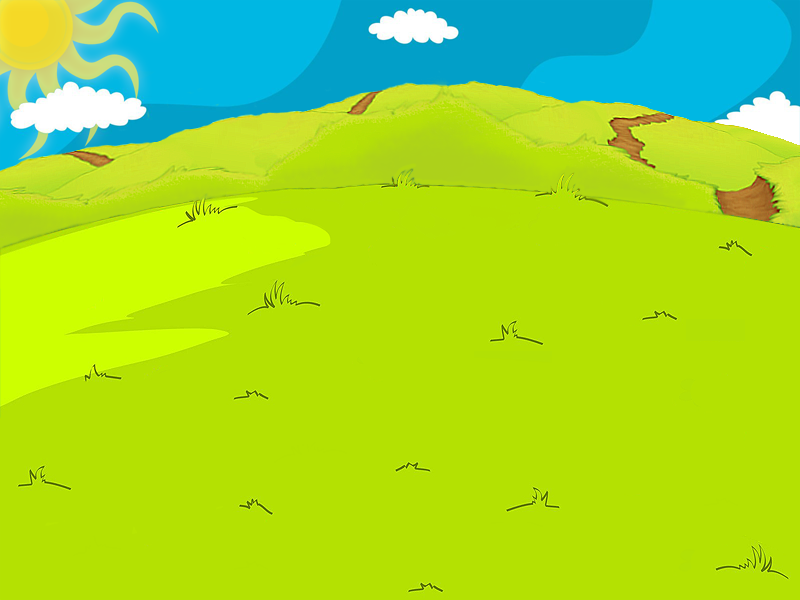
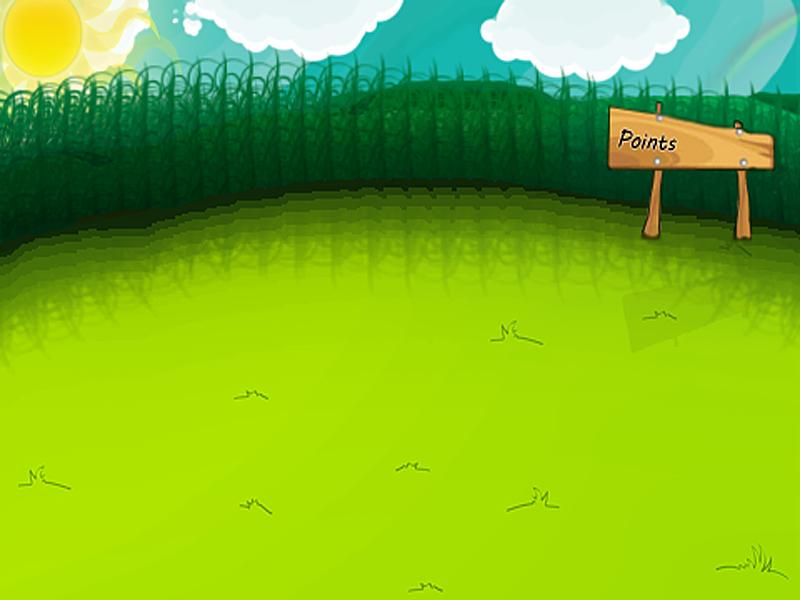
Alterado o plano de fundo e posição dos pontos e adicionado o flare

diff --git a/molehole.py b/molehole.py
@@ -178,6 +178,7 @@ tabuleiro = pygame.Surface((640, 288), flags=pygame.SRCALPHA)
 martelo = pygame.Surface((800, 600), flags=pygame.SRCALPHA)
 
 background = pygame.image.load('images/background.png')
+flare = pygame.image.load('images/flare.png')
 hole_bg = pygame.image.load('images/hole_0.png')
 mole_active = pygame.image.load('images/mole.png')
 mole_punk = pygame.image.load('images/mole_punk.png')
@@ -189,16 +190,17 @@ pygame.mouse.set_visible(False)
 points = 0
 lifes = 5
 speed_counter = 0
-dificulty = 12
+dificulty = 8
 
 points_font = pygame.font.Font('FreeSans.ttf', 24)
 lifes_font = pygame.font.Font('FreeSans.ttf', 24)
+points_font.set_bold(True)
 dead_title_font = pygame.font.Font('FreeSans.ttf', 50)
 dead_points_font = pygame.font.Font('FreeSans.ttf', 140)
 
 
 #Eventos iniciais
-alive_holes = [0, 1, 2, 3, 4, 5, 6, 7, 8, 9, 10, 11, 12, 13, 14]
+alive_holes = [1, 2, 3, 6, 7, 8, 11, 12, 13]
 place_holes(alive_holes)
 
 
@@ -243,13 +245,14 @@ while not done:
 
     draw_holes()
 
-    points_render = points_font.render(('Points  ' + str(points)), True, (255, 255, 255))
-    lifes_render = lifes_font.render(('Lifes  ' + str(lifes)), True, (255, 80, 50))
+    points_render = points_font.render(str(points), True, (178, 34, 34))
+    lifes_render = lifes_font.render(('Lifes  ' + str(lifes)), True, (0, 0, 0))
     screen.blit(background, (0, 0))
     screen.blit(tabuleiro, (80, 260))
-    screen.blit(points_render, (600, 20))
-    screen.blit(lifes_render, (600, 60))
+    screen.blit(points_render, (686, 132))
+    screen.blit(lifes_render, (600, 20))
     screen.blit(martelo, (0, 0))
+    screen.blit(flare, (0, 0))
 
     # Go ahead and update the screen with what we've drawn.
     pygame.display.flip()
